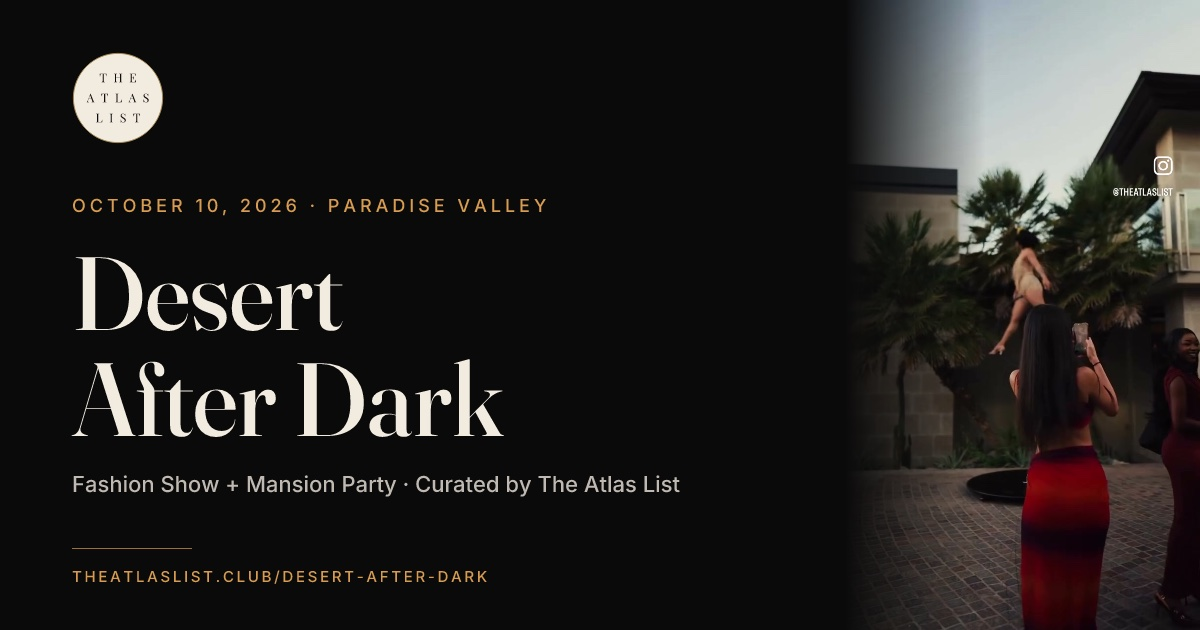
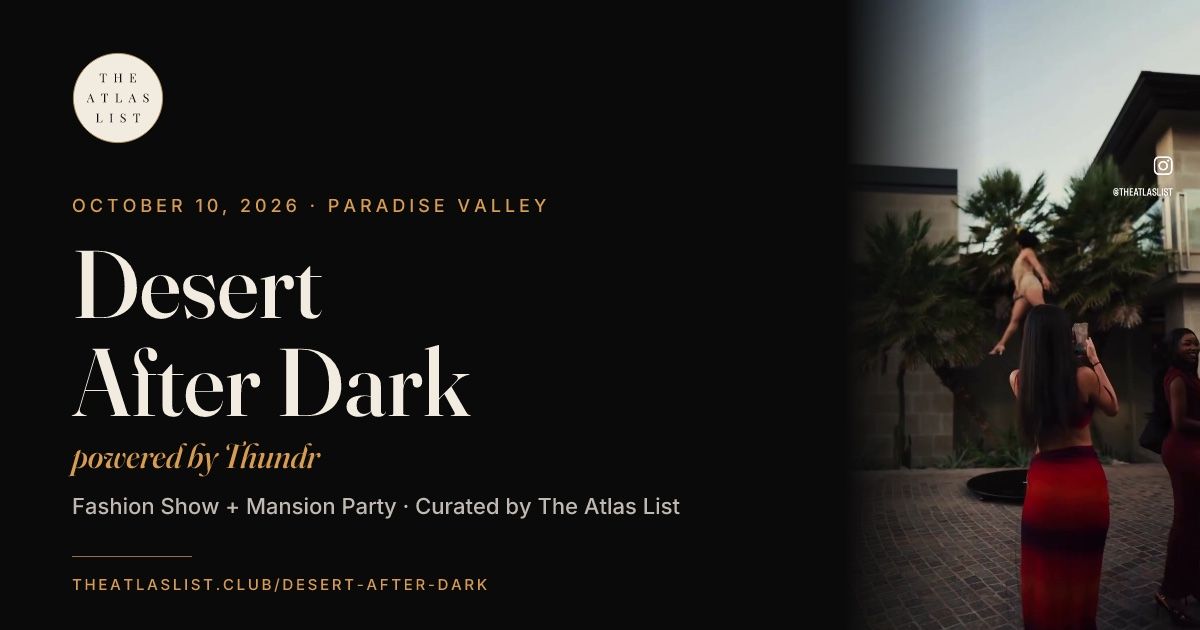
Desert After Dark: "powered by Thundr" sponsor credit
- Hero: new optional tagline slot in VslHero rendered directly under the
  H1 (serif italic, champagne on the velvet theme); content sets
  "powered by Thundr".
- Share card re-rendered with "powered by Thundr" in Fraunces italic
  between the headline and the subtitle; og/twitter title, description,
  and image alt carry the credit. The browser-tab title stays
  "Desert After Dark · October 10".

Changed region(s): [[0.0617, 0.3921, 0.5858, 0.8143], [0.0617, 0.9048, 0.4008, 0.9349]]

diff --git a/src/app/desert-after-dark/page.tsx b/src/app/desert-after-dark/page.tsx
@@ -7,8 +7,11 @@ import { Avatar } from "@/components/Avatar";
 import { desertAfterDark } from "@/content/desert-after-dark";
 
 const shareTitle = "Desert After Dark · October 10";
+// The sponsor credit goes on the share card (og/twitter title, description,
+// image alt) but stays out of the browser-tab title.
+const shareOgTitle = "Desert After Dark powered by Thundr · October 10";
 const shareDescription =
-  "The Atlas List presents Desert After Dark — a private-residence fashion show and mansion party in Paradise Valley, October 10, 2026. Featured designers, hand-picked models, top-shelf DJs — allocated by application.";
+  "The Atlas List presents Desert After Dark, powered by Thundr — a private-residence fashion show and mansion party in Paradise Valley, October 10, 2026. Featured designers, hand-picked models, top-shelf DJs — allocated by application.";
 
 // Dedicated share card: the root layout's openGraph block is otherwise
 // inherited wholesale, which made links to this page preview as the home
@@ -18,7 +21,7 @@ export const metadata: Metadata = {
   description: shareDescription,
   alternates: { canonical: "/desert-after-dark" },
   openGraph: {
-    title: `${shareTitle} · The Atlas List`,
+    title: `${shareOgTitle} · The Atlas List`,
     description: shareDescription,
     url: "/desert-after-dark",
     siteName: "The Atlas List",
@@ -28,13 +31,13 @@ export const metadata: Metadata = {
         url: "/images/og-desert-after-dark.jpg",
         width: 1200,
         height: 630,
-        alt: "Desert After Dark — The Atlas List fashion show + mansion party, October 10, 2026, Paradise Valley",
+        alt: "Desert After Dark powered by Thundr — The Atlas List fashion show + mansion party, October 10, 2026, Paradise Valley",
       },
     ],
   },
   twitter: {
     card: "summary_large_image",
-    title: `${shareTitle} · The Atlas List`,
+    title: `${shareOgTitle} · The Atlas List`,
     description: shareDescription,
     images: ["/images/og-desert-after-dark.jpg"],
   },
@@ -60,6 +63,7 @@ export default function DesertAfterDarkPage() {
       <VslHero
         eyebrow={desertAfterDark.hero.eyebrow}
         headline={desertAfterDark.hero.headline}
+        tagline={desertAfterDark.hero.tagline}
         subhead={desertAfterDark.hero.subhead}
         cta={{ label: desertAfterDark.hero.cta, href: "#apply" }}
         videoSrc="/videos/atlas-house-promo.mp4"

diff --git a/src/components/VslHero.tsx b/src/components/VslHero.tsx
@@ -3,6 +3,8 @@ import Link from "next/link";
 type Props = {
   eyebrow: string;
   headline: string;
+  // Optional sub-headline directly under the H1 (e.g. a sponsor credit).
+  tagline?: string;
   subhead: string;
   cta: { label: string; href: string };
   videoSrc?: string;
@@ -22,6 +24,7 @@ const THEME = {
     section: "bg-noir",
     glow: "",
     eyebrow: "text-bronze",
+    tagline: "text-bronze",
     frame: "border-bronze/40",
     cta: "text-noir bg-bone hover:bg-bronze hover:text-bone",
   },
@@ -29,6 +32,7 @@ const THEME = {
     section: "bg-velvet",
     glow: "bg-[radial-gradient(ellipse_at_top_left,rgba(164,62,120,0.28),transparent_60%)]",
     eyebrow: "text-champagne",
+    tagline: "text-champagne",
     frame: "border-burgundy/50",
     cta: "text-velvet bg-champagne hover:bg-burgundy hover:text-bone",
   },
@@ -41,6 +45,7 @@ const THEME = {
 export function VslHero({
   eyebrow,
   headline,
+  tagline,
   subhead,
   cta,
   videoSrc,
@@ -60,9 +65,16 @@ export function VslHero({
       <span className={`text-xs uppercase tracking-widest ${t.eyebrow}`}>
         {eyebrow}
       </span>
-      <h1 className="font-serif text-[2.4rem] leading-[1.05] sm:text-5xl md:text-6xl text-bone">
-        {headline}
-      </h1>
+      <div className="flex flex-col gap-2 md:gap-3">
+        <h1 className="font-serif text-[2.4rem] leading-[1.05] sm:text-5xl md:text-6xl text-bone">
+          {headline}
+        </h1>
+        {tagline && (
+          <p className={`font-serif italic text-xl sm:text-2xl md:text-3xl leading-tight ${t.tagline}`}>
+            {tagline}
+          </p>
+        )}
+      </div>
       <p className="text-base sm:text-lg md:text-xl text-bone/80 leading-relaxed">
         {subhead}
       </p>

diff --git a/src/content/desert-after-dark.ts b/src/content/desert-after-dark.ts
@@ -2,6 +2,7 @@ export const desertAfterDark = {
   hero: {
     eyebrow: "October 10, 2026 · Paradise Valley",
     headline: "Desert After Dark",
+    tagline: "powered by Thundr",
     subhead:
       "One night. One mansion. The fashion moment Scottsdale has been waiting for — a private-residence runway show and after-dark takeover, curated by The Atlas List. Featured designers, hand-picked models, top-shelf DJs, and a guest list built one name at a time.",
     cta: "Apply for Ticket Allocation",
